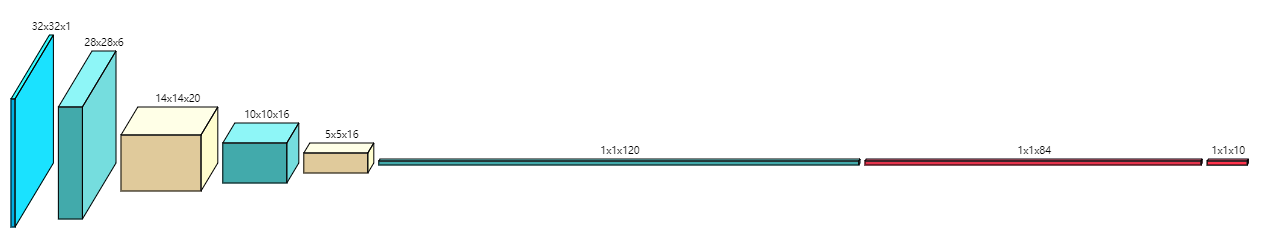
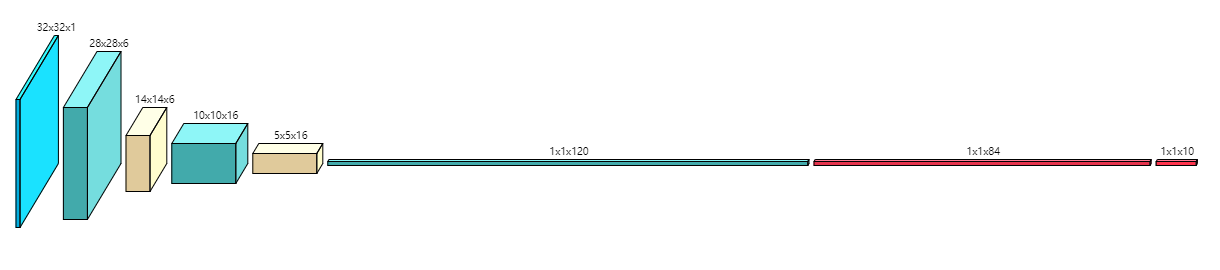
lenet

Changed region(s): [[0.0, 0.0875, 0.9967, 0.9625]]

diff --git a/modelpic/lenet.tex b/modelpic/lenet.tex
@@ -1,0 +1,152 @@
+\documentclass[border=8pt, multi, tikz]{standalone} 
+\usepackage{import}
+\subimport{../layers/}{init}
+\usetikzlibrary{positioning}
+\usetikzlibrary{3d} %for including external image 
+
+
+\def\ConvColor{rgb:yellow,5;red,2.5;white,5}
+\def\ConvReluColor{rgb:yellow,5;red,5;white,5}
+\def\PoolColor{rgb:red,1;black,0.3}
+\def\UnpoolColor{rgb:blue,2;green,1;black,0.3}
+\def\FcColor{rgb:blue,5;red,2.5;white,5}
+\def\FcReluColor{rgb:blue,5;red,5;white,4}
+\def\SoftmaxColor{rgb:magenta,5;black,7}   
+
+
+\newcommand{\copymidarrow}{\tikz \draw[-Stealth,line width=0.8mm,draw={rgb:blue,4;red,1;green,1;black,3}] (-0.3,0) -- ++(0.3,0);}
+
+\begin{document}
+\begin{tikzpicture}
+\tikzstyle{connection}=[ultra thick,every node/.style={sloped,allow upside down},draw=\edgecolor,opacity=0.7]
+\tikzstyle{copyconnection}=[ultra thick,every node/.style={sloped,allow upside down},draw={rgb:blue,4;red,1;green,1;black,3},opacity=0.7]
+
+
+\pic[shift={(0,0,0)}] at (0,0,0) 
+    {Box={
+        name=conv0,
+        caption= ,
+        xlabel={{1, }},
+        zlabel=32,
+        fill=\ConvColor,
+        height=32,
+        width=1,
+        depth=32
+        }
+    };
+
+
+\pic[shift={(1,0,0)}] at (conv0-east) 
+    {Box={
+        name=conv1,
+        caption= ,
+        xlabel={{6, }},
+        zlabel=28,
+        fill=\ConvColor,
+        height=28,
+        width=6,
+        depth=28
+        }
+    };
+
+
+\draw [connection]  (conv0-east)    -- node {\midarrow} (conv1-west);
+
+
+\pic[shift={ (0,0,0) }] at (conv1-east) 
+    {Box={
+        name=pool1,
+        caption= ,
+        fill=\PoolColor,
+        opacity=0.5,
+        height=14,
+        width=6,
+        depth=14
+        }
+    };
+
+
+\pic[shift={(1,0,0)}] at (pool1-east) 
+    {Box={
+        name=conv2,
+        caption= ,
+        xlabel={{16, }},
+        zlabel=10,
+        fill=\ConvColor,
+        height=10,
+        width=16,
+        depth=10
+        }
+    };
+
+
+\draw [connection]  (pool1-east)    -- node {\midarrow} (conv2-west);
+
+
+\pic[shift={ (0,0,0) }] at (conv2-east) 
+    {Box={
+        name=pool2,
+        caption= ,
+        fill=\PoolColor,
+        opacity=0.5,
+        height=5,
+        width=16,
+        depth=5
+        }
+    };
+
+
+\pic[shift={(1,0,0)}] at (pool2-east) 
+    {Box={
+        name=conv3,
+        caption= ,
+        xlabel={{1, }},
+        zlabel=120,
+        fill=\ConvColor,
+        height=1,
+        width=1,
+        depth=120
+        }
+    };
+
+
+\draw [connection]  (pool2-east)    -- node {\midarrow} (conv3-west);
+
+
+\pic[shift={(2,0,0)}] at (conv3-east) 
+    {Box={
+        name=conv4,
+        caption= ,
+        xlabel={{1, }},
+        zlabel=84,
+        fill=\ConvColor,
+        height=1,
+        width=1,
+        depth=84
+        }
+    };
+
+
+\draw [connection]  (conv3-east)    -- node {\midarrow} (conv4-west);
+
+
+\pic[shift={(3,0,0)}] at (conv4-east) 
+    {Box={
+        name=soft1,
+        caption=SOFT,
+        xlabel={{" ","dummy"}},
+        zlabel=10,
+        fill=\SoftmaxColor,
+        opacity=0.8,
+        height=3,
+        width=1.5,
+        depth=25
+        }
+    };
+
+
+\draw [connection]  (conv4-east)    -- node {\midarrow} (soft1-west);
+
+
+\end{tikzpicture}
+\end{document}

diff --git a/README.md b/README.md
@@ -67,7 +67,13 @@ Object Detection：ssd
 
 一个具体的问题是否能用人工智能，或者更进一步说用深度学习某个算法解决，首先需要人对问题进行分解，提炼成可以用机器解决的问题，譬如说分类问题，回归问题，聚类问题等。
 
-PS： caffe 模型可视化网址 http://ethereon.github.io/netscope/#/editor
+PS： 
+
+
+
+
+
+caffe 模型可视化网址 http://ethereon.github.io/netscope/#/editor
 
 
 # Content 目录 
@@ -178,8 +184,10 @@ Momenta 提出的SENet 获得了最后一届 ImageNet 2017 竞赛 Image Classifi
    <a href="https://github.com/weslynn/graphic-deep-neural-network/blob/master/object%20classification%20%E7%89%A9%E4%BD%93%E5%88%86%E7%B1%BB/LeNet.md"> <img src="https://github.com/weslynn/graphic-deep-neural-network/blob/master/pic/lenet-org.jpg" width="705"> </a>
 
    <a href="https://github.com/weslynn/graphic-deep-neural-network/blob/master/object%20classification%20%E7%89%A9%E4%BD%93%E5%88%86%E7%B1%BB/LeNet.md"> <img src="https://github.com/weslynn/graphic-deep-neural-network/blob/master/modelpic/lenet.png" width="600"> </a>
-   
-   <a href="https://github.com/weslynn/graphic-deep-neural-network/blob/master/object%20classification%20%E7%89%A9%E4%BD%93%E5%88%86%E7%B1%BB/LeNet.md"> <img src="https://github.com/weslynn/graphic-deep-neural-network/blob/master/modelpic/lenet_data.png" width="405"> </a>
+
+   <a href="https://github.com/weslynn/graphic-deep-neural-network/blob/master/object%20classification%20%E7%89%A9%E4%BD%93%E5%88%86%E7%B1%BB/LeNet.md"> <img src="https://github.com/weslynn/graphic-deep-neural-network/blob/master/modelpic/lenet_data.png" width="705"> </a>
+
+   <a href="https://github.com/weslynn/graphic-deep-neural-network/blob/master/object%20classification%20%E7%89%A9%E4%BD%93%E5%88%86%E7%B1%BB/LeNet.md"> <img src="https://github.com/weslynn/graphic-deep-neural-network/blob/master/modelpic/lenet_data2.png" width="705"> </a>
 
    [1] LeCun, Yann; Léon Bottou; Yoshua Bengio; Patrick Haffner (1998). "Gradient-based learning applied to document recognition" [pdf](http://yann.lecun.com/exdb/publis/pdf/lecun-01a.pdf)
 
